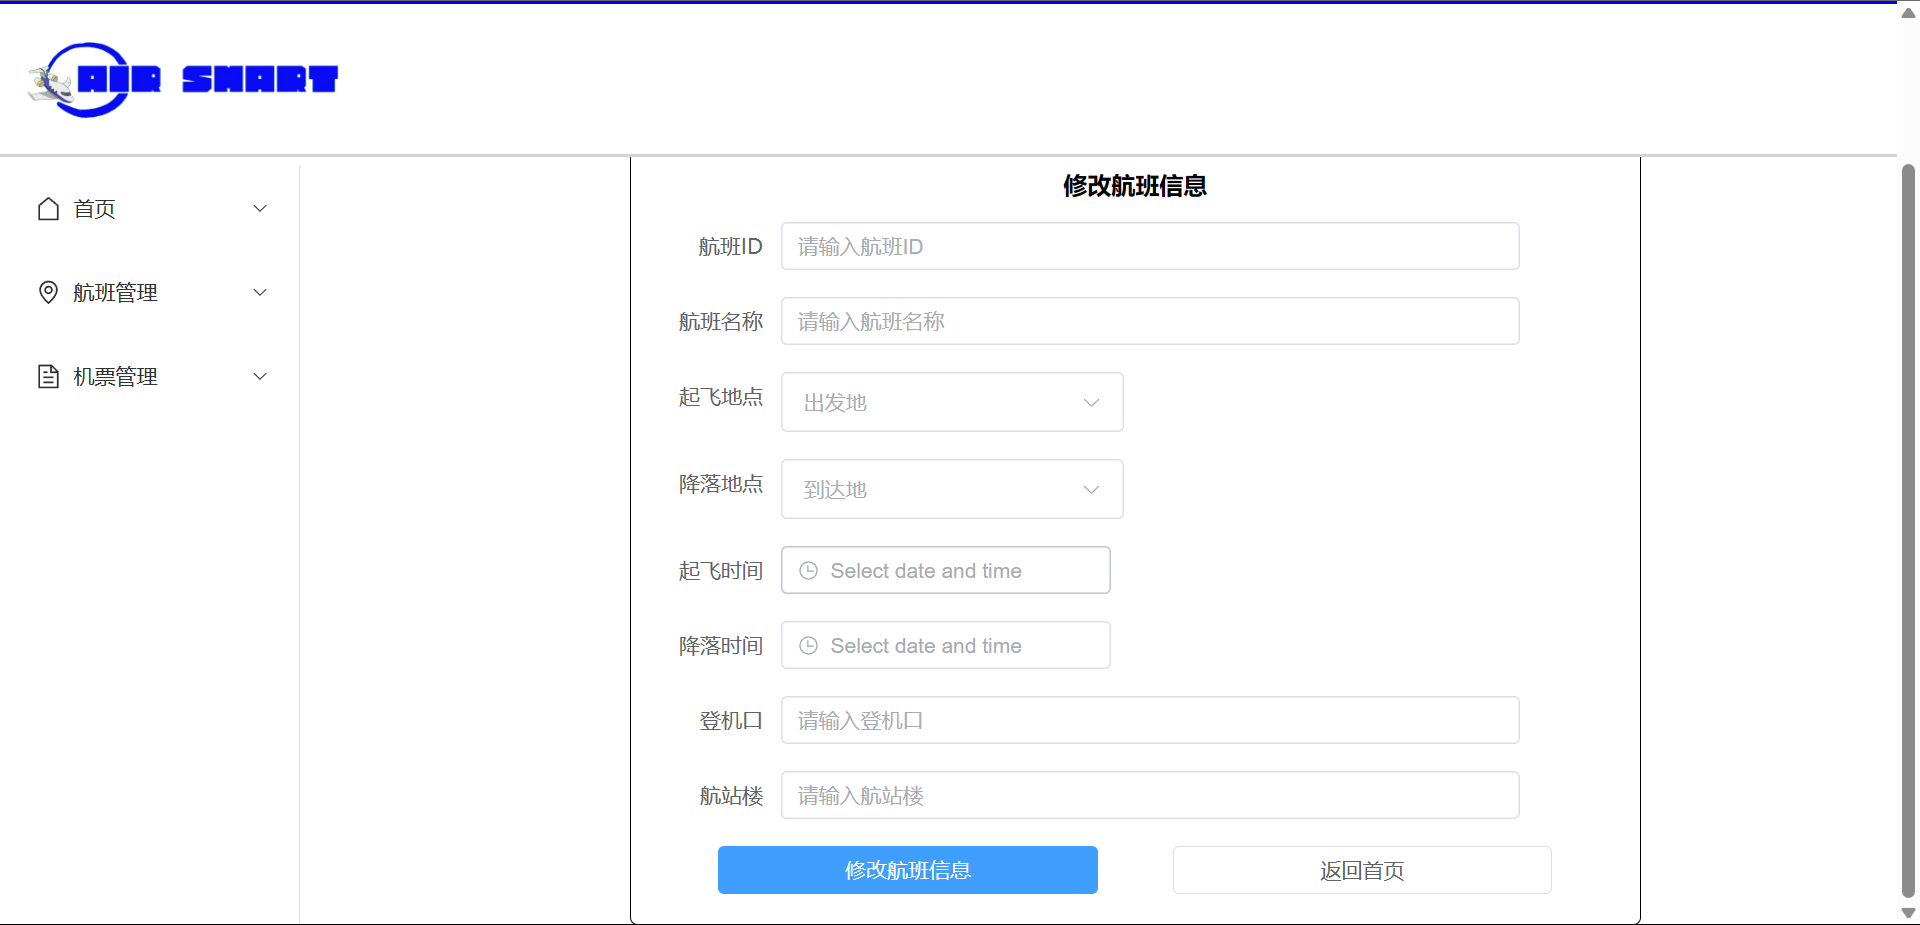
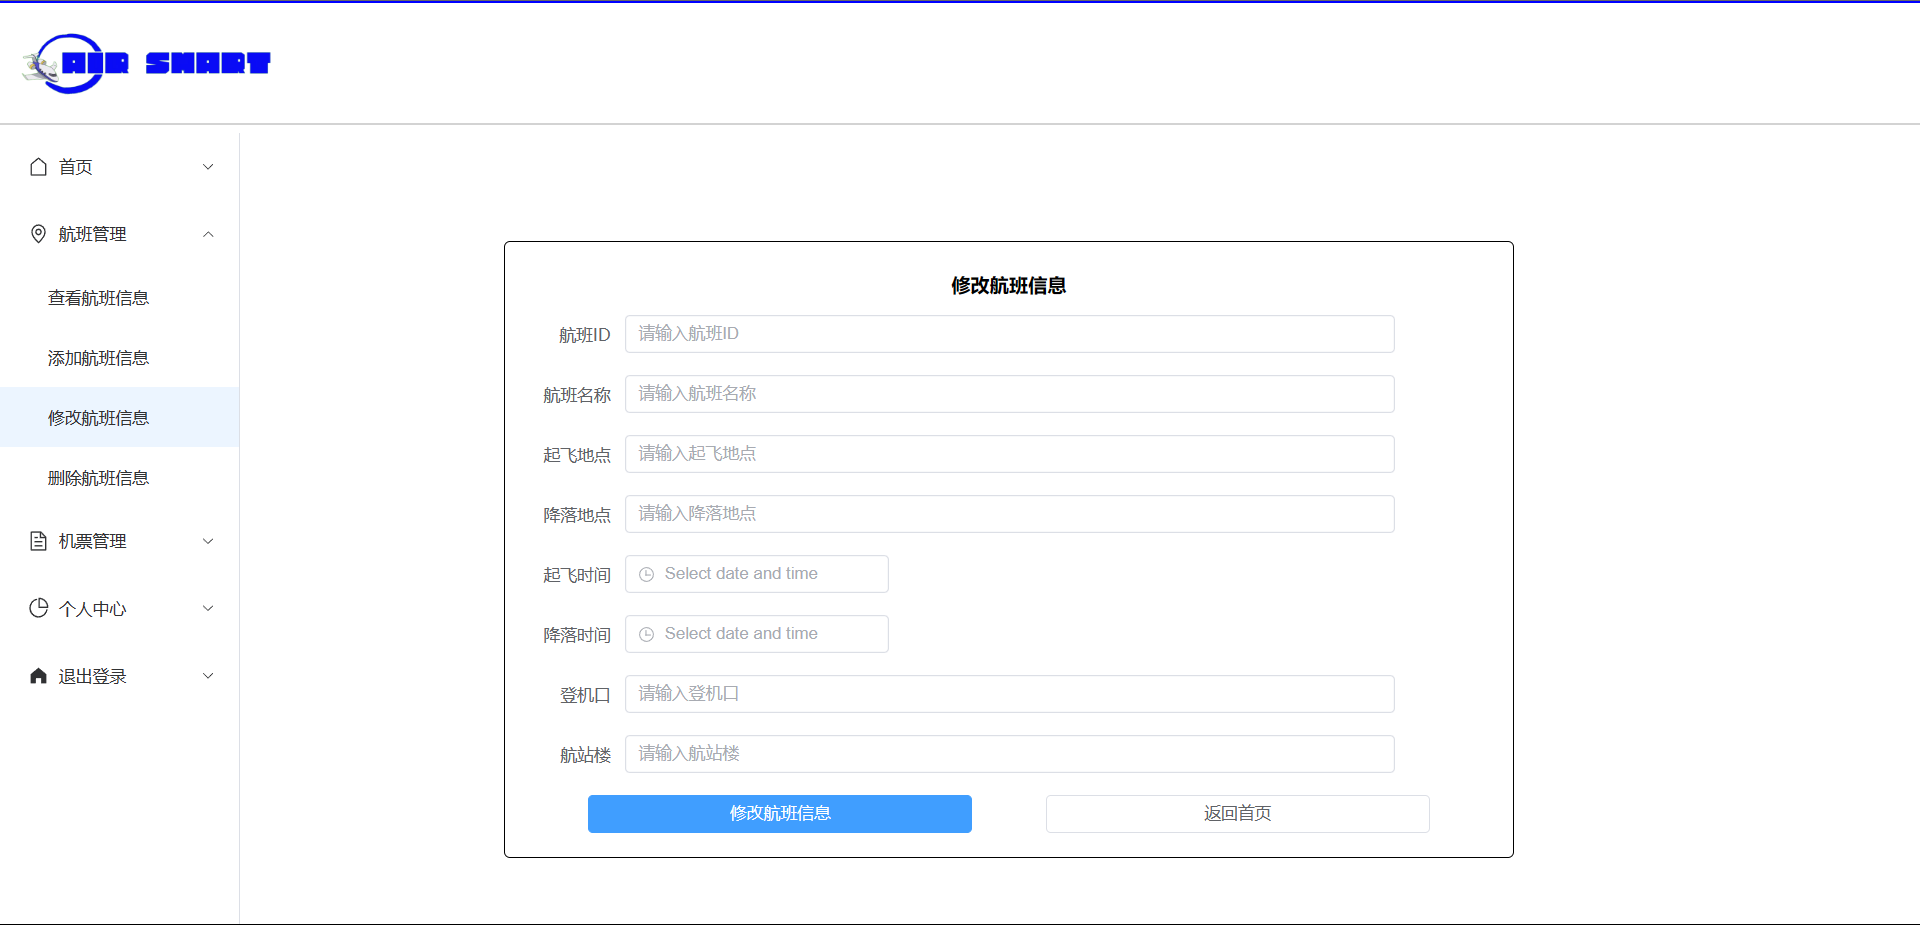
完善用户使用说明书

diff --git a/07-用户使用说明书/《智慧机场系统》用户使用说明书.md b/07-用户使用说明书/《智慧机场系统》用户使用说明书.md
@@ -205,12 +205,16 @@
     http://localhost:8080/#/admin
 
 20. 工作人员停车位管理页面
+    http://localhost:8080/#/admin/parkingManage
     
-21. 工作人员报修管理页面
+21. 工作人员行李信息管理页面
+    http://localhost:8080/#/admin/luggagemanage
     
 22. 工作人员申请管理页面
+    http://localhost:8080/#/admin/applymanage
     
 23. 工作人员个人中心页面
+    http://localhost:8080/#/admin/selfmanage
     
 24. 商户主页面
     http://localhost:8080/#/merchant
@@ -224,7 +228,6 @@
 27. 商户个人中心页面
     http://localhost:8080/#/merchant/selfmanage
 
-### 4.2 其他方式？（如有）
 
 ## 五、系统功能使用说明
 
@@ -240,45 +243,13 @@
 
    由于各页面导航栏功能一致，所以我们将导航栏功能放在此说明，之后便不再进行赘述。
 
-   - 未登录状态下导航栏跳转
+   - 点击”登录/注册“会跳转到登录页面，用户可以进行登录或注册。
+   - 点击机票可以进行机票查询
 
-     （1）点击”登录/注册“会跳转到登录页面，用户可以进行登录或注册。
-
-   - 用户登录状态下导航栏跳转
-
-     （1）点击”机票“会跳转到查询航班页面，用户可进行航班查询
-
-     （2）
-
-   - 航空公司登录状态下导航栏跳转
-
-     （1）点击首页后点击返回首页可跳转到主页面
-
-     （2）点击航班管理
-
-     - 点击查看航班信息可以该公司查看航班信息
-     - 点击添加航班信息可以添加该公司航班信息
-     - 点击修改航班信息可以修改该公司指定航班信息
-     - 点击删除航班信息可以删除该公司指定航班信息
-
-     （3）点击机票管理
-
-     - 点击查看机票信息可以该公司查看机票信息
-     - 点击添加机票信息可以添加该公司机票班信息
-     - 点击修改机票信息可以修改该公司指定机票信息
-     - 点击删除机票信息可以删除该公司指定机票信息
-
-   - 工作人员登录状态下导航栏跳转
-
-     （1）
-
-   - 商户登录状态下导航栏跳转
-
-     （1）
 
    
 
-### 5.2 登陆和注册页面
+### 5.2 登录和注册页面
 
 通过此页面进行登录注册。
 
@@ -325,13 +296,22 @@
    - 修改机票信息可以修改该公司已发布的机票
    - 删除机票信息可以删除该公司已发布的机票
 
-下列图片为航班管理页面展示：
+3. 个人中心
+   - 修改密码和个人信息
 
-- 首页![companyHome](img/companyHome.png)
-- 查看航班信息![companySearch](img/companySearch.png)
-- 添加航班信息![companyAdd](img/companyAdd.png)
-- 修改航班信息![companyChange](img/companyChange.png)
-- 删除航班信息![companyDelete](img/companyDelete.png)
+4. 退出登录
+   - 退出登录并返回主页面
+
+下列图片为航班管理模块部分页面展示：
+- 查询航班信息
+  ![companySearch](img/companySearch.png)
+- 添加航班信息
+  ![companyAdd](img/companyAdd.png)
+- 修改航班信息
+  ![companyChange](img/companyChange.png)
+- 删除航班信息
+  ![companyDelete](img/companyDelete.png)
+
 
 ### 5.4 用户模块页面
 
@@ -373,7 +353,9 @@
 5. 个人中心
    - 修改邮箱
    - 修改密码
-下面显示部分页面：
+
+
+以下为用户模块部分页面展示：
 - 添加实名信息
 ![addSelfInfo](img/addSelfInfo.png)
 - 查询指定航班信息
@@ -381,15 +363,69 @@
 - 修改邮箱
 ![changeEmail](img/changeEmail.png)
 
-
 ### 5.5 工作人员模块页面
 
 #### 5.5.1 包含内容
 
+1. 导航栏：可以跳转到其他的页面。
+2. 停车位管理：查看、添加、修改、删除停车位信息。
+3. 行李信息管理：添加、更新和删除行李信息。
+4. 申请管理：添加、查看和删除报修申请；查看入驻申请和查看财务报表。
+5. 个人中心：修改账户信息。
+
 #### 5.5.2 功能介绍
+
+1. 停车位管理
+   - 添加停车位信息
+   - 查看已添加停车位信息
+   - 修改停车位信息
+   - 删除停车位信息
+2. 行李信息管理
+   - 添加用户行李信息
+   - 更新用户行李信息
+   - 删除用户行李信息
+3. 申请管理
+   - 添加报修申请
+   - 查看已添加报修申请
+   - 查看商户入驻申请
+   - 删除报修申请
+   - 查看财务报表
+4. 个人中心
+   - 修改邮箱
+   - 修改密码
+
+以下为工作人员模块部分页面展示：
+- 添加停车订单
+   ![addparking](img/addParking.png)
+- 添加行李信息
+   ![addLuggage](img/addluggage.png)
+- 添加报修申请
+   ![appyFix](img/applyFix.png)
 
 ### 5.6 商户模块页面
 
 #### 5.6.1 包含内容
-
+1. 导航栏：可以跳转到其他的页面。
+2. 商品管理：查看、添加、修改、删除商品信息。
+3. 商品订单管理：查看已有订单。
+4. 个人中心：修改账户信息。
+   
 #### 5.6.2 功能介绍
+1. 商品管理
+   - 查看商品信息
+   - 添加商品信息
+   - 修改商品信息
+   - 删除商品信息
+2. 商品订单管理
+   - 查看已有订单
+3. 个人中心
+   - 修改邮箱
+   - 修改密码
+
+以下为商户模块部分页面展示：
+- 添加商品信息
+   ![addItem](img/addItem.png)
+- 修改商品信息
+   ![changeItem](img/changeItem.png)
+- 查看已有订单
+   ![searchItemRecord](img/searchItemRecord.png)
